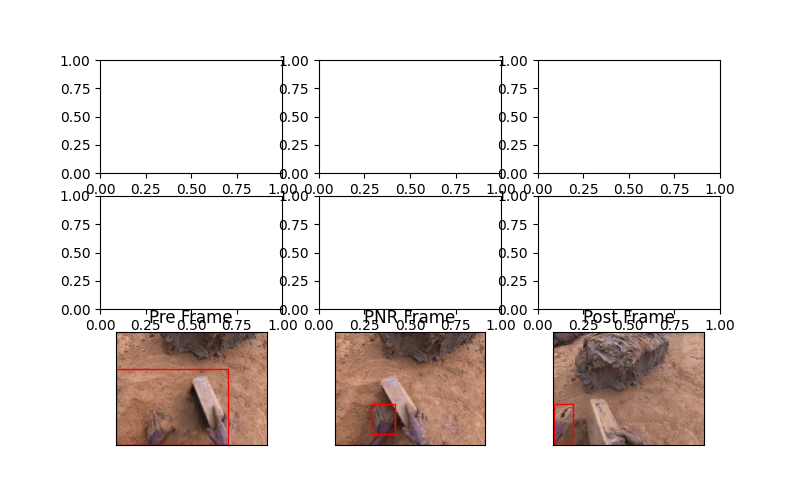
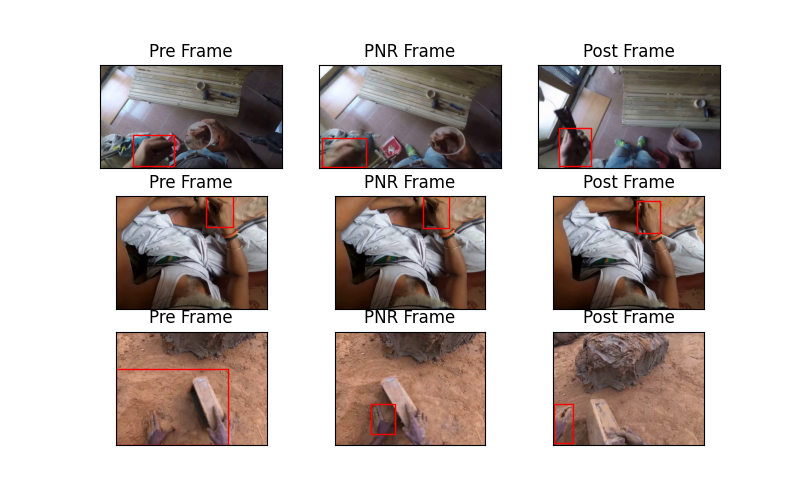
cleaning

Changed region(s): [[0.0625, 0.09, 0.9375, 0.66]]

diff --git a/data_viz.py b/data_viz.py
@@ -101,9 +101,6 @@ ax[1,2].axes.yaxis.set_visible(False)
 ax[1,2].set_title("Post Frame")
 
 (pre_img, pre_bbox), (pnr_img, pnr_bbox), (post_img, post_bbox) = get_frames_and_bboxes(4499)
-fig, ax = plt.subplots(3, 3)
-fig.set_figheight(5)
-fig.set_figwidth(8)
 ax[2,0].imshow(pre_img)
 rect = patches.Rectangle((pre_bbox['x'], pre_bbox['y']), pre_bbox['width'], pre_bbox['height'], linewidth=1, facecolor='none', edgecolor='r')
 ax[2,0].add_patch(rect)
